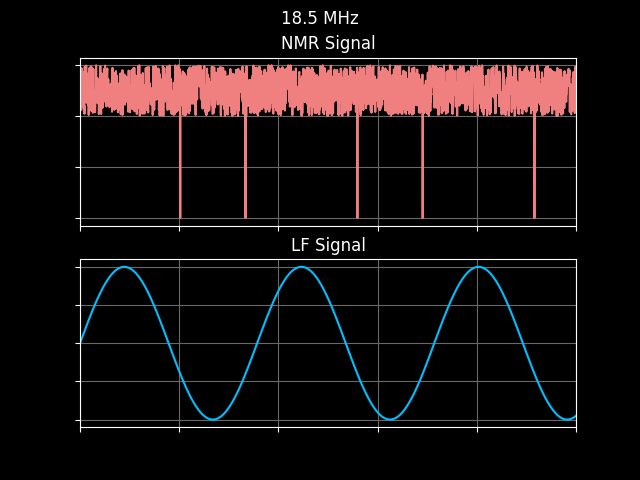
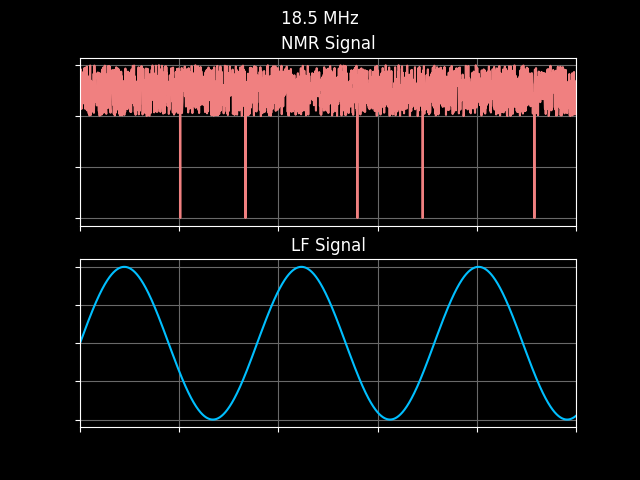
recieve resonance as input within signal function

Changed region(s): [[0.125, 0.125, 0.9062, 0.25]]

diff --git a/signal_generator.py b/signal_generator.py
@@ -6,7 +6,7 @@ import random
 # TODO input peak point from outside of function
 # TODO make double and triple peaks
 # TODO make more realistic peak
-def generate_signal():
+def generate_signal(resonance_frq):
     # Create a random signal
     data_points = np.linspace(0, 0.1, 2000) # generate data points
     
@@ -15,7 +15,7 @@ def generate_signal():
     # Conditionally set the y values
     HF_signal = np.random.rand(len(data_points)) + 3
     for n in range(len(data_points)):
-        if .595 < LF_signal[n] < .605:
+        if resonance_frq - .005 < LF_signal[n] < resonance_frq + .005:
             HF_signal[n] = 1  # Set resonance
        
     return data_points, HF_signal, LF_signal
@@ -34,7 +34,6 @@ def plot(time, signal, sine_wave, HF_setting):
     ax1.grid(color='dimgrey')
     ax1.set_xticklabels([])
     ax1.set_yticklabels([])
-    # ax1.set_grid(color='r', linestyle='-', linewidth=2)
     ax2.plot(time, sine_wave, color='deepskyblue')
     ax2.set_title("LF Signal")
     # ax2.set_ylim((0, 5))
@@ -46,7 +45,9 @@ def plot(time, signal, sine_wave, HF_setting):
 
 
 if __name__ == '__main__':
-    t, b, n = generate_signal()
+    resonance_frq = .6
+
+    t, b, n = generate_signal(resonance_frq)
 
     HF_setting = 18.5
     plot(t, b, n, HF_setting)
